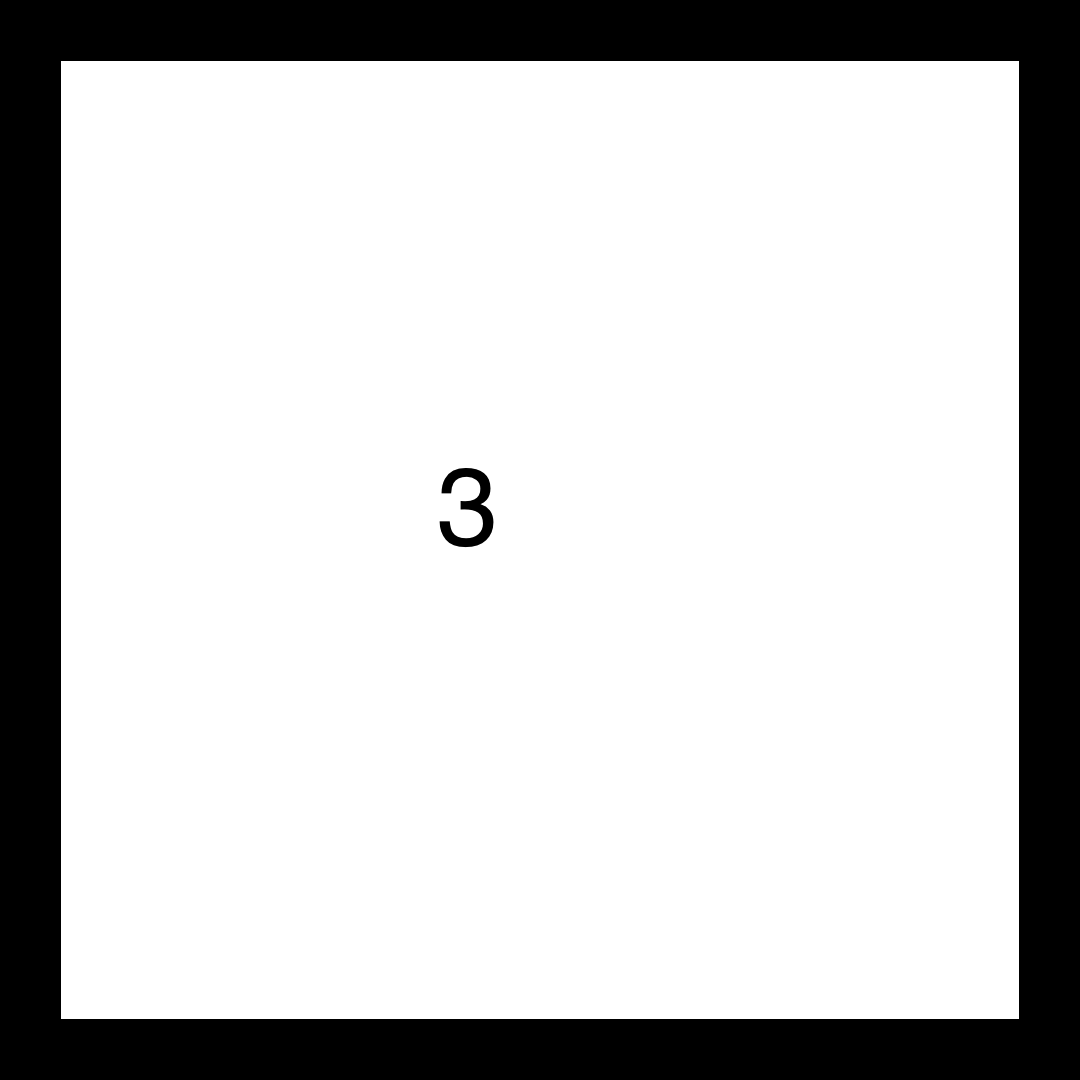
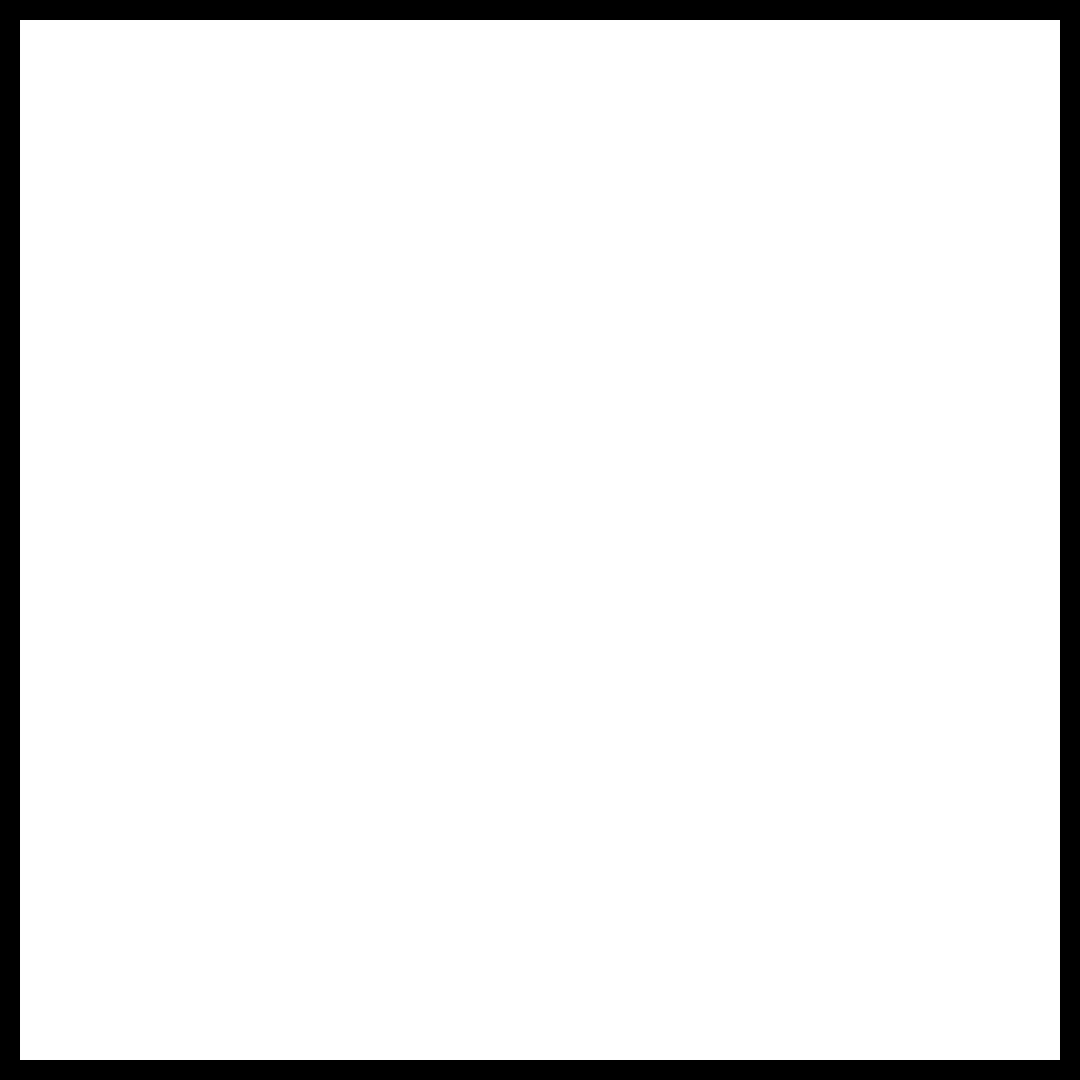
adds preliminary border selection to the debug menu

Changed region(s): [[0.0, 0.0, 1.0, 1.0], [0.3972, 0.4278, 0.4583, 0.5194]]

diff --git a/SMLRcam/SMLRcam/FluxOpenGLViewController.m b/SMLRcam/SMLRcam/FluxOpenGLViewController.m
@@ -1197,6 +1197,7 @@ didOutputSampleBuffer:(CMSampleBufferRef)sampleBuffer
     [[NSNotificationCenter defaultCenter] addObserver:self selector:@selector(render) name:FluxOpenGLShouldRender object:nil];
     
     [[NSNotificationCenter defaultCenter] addObserver:self selector:@selector(loadAlphaTexture) name:@"maskChange" object:nil];
+    [[NSNotificationCenter defaultCenter] addObserver:self selector:@selector(loadBorderTexture) name:@"BorderChange" object:nil];
 }
 
 - (void)viewWillAppear:(BOOL)animated
@@ -1225,6 +1226,7 @@ didOutputSampleBuffer:(CMSampleBufferRef)sampleBuffer
     [[NSNotificationCenter defaultCenter] removeObserver:self name:FluxImageCaptureDidCaptureImage object:nil];
     [[NSNotificationCenter defaultCenter] removeObserver:self name:FluxOpenGLShouldRender object:nil];
     [[NSNotificationCenter defaultCenter] removeObserver:self name:@"maskChange" object:nil];
+    [[NSNotificationCenter defaultCenter] removeObserver:self name:@"BorderChange" object:nil];
     
     [self tearDownGL];
     

diff --git a/SMLRcam/SMLRcam/FluxDebugViewController.m b/SMLRcam/SMLRcam/FluxDebugViewController.m
@@ -29,7 +29,8 @@
     [super viewDidLoad];
     
     NSUserDefaults *defaults = [NSUserDefaults standardUserDefaults];
-    [segmentedControl1 setSelectedSegmentIndex:[(NSString*)[defaults objectForKey:@"border"]intValue]+1];
+     int borderType = [[defaults objectForKey:@"Border"] integerValue];
+    [segmentedControl1 setSelectedSegmentIndex:[(NSString*)[defaults objectForKey:@"Border"]intValue]-1];
 	// Do any additional setup after loading the view.
 }
 
@@ -51,6 +52,9 @@
     NSUserDefaults *defaults = [NSUserDefaults standardUserDefaults];
     
     [defaults setObject:[NSString stringWithFormat:@"%i",[(UISegmentedControl*)sender selectedSegmentIndex]+1] forKey:@"Border"];
+    [defaults synchronize];
+    [[NSNotificationCenter defaultCenter] postNotificationName:@"BorderChange"
+                                                        object:self userInfo:nil];
 }
 
 
